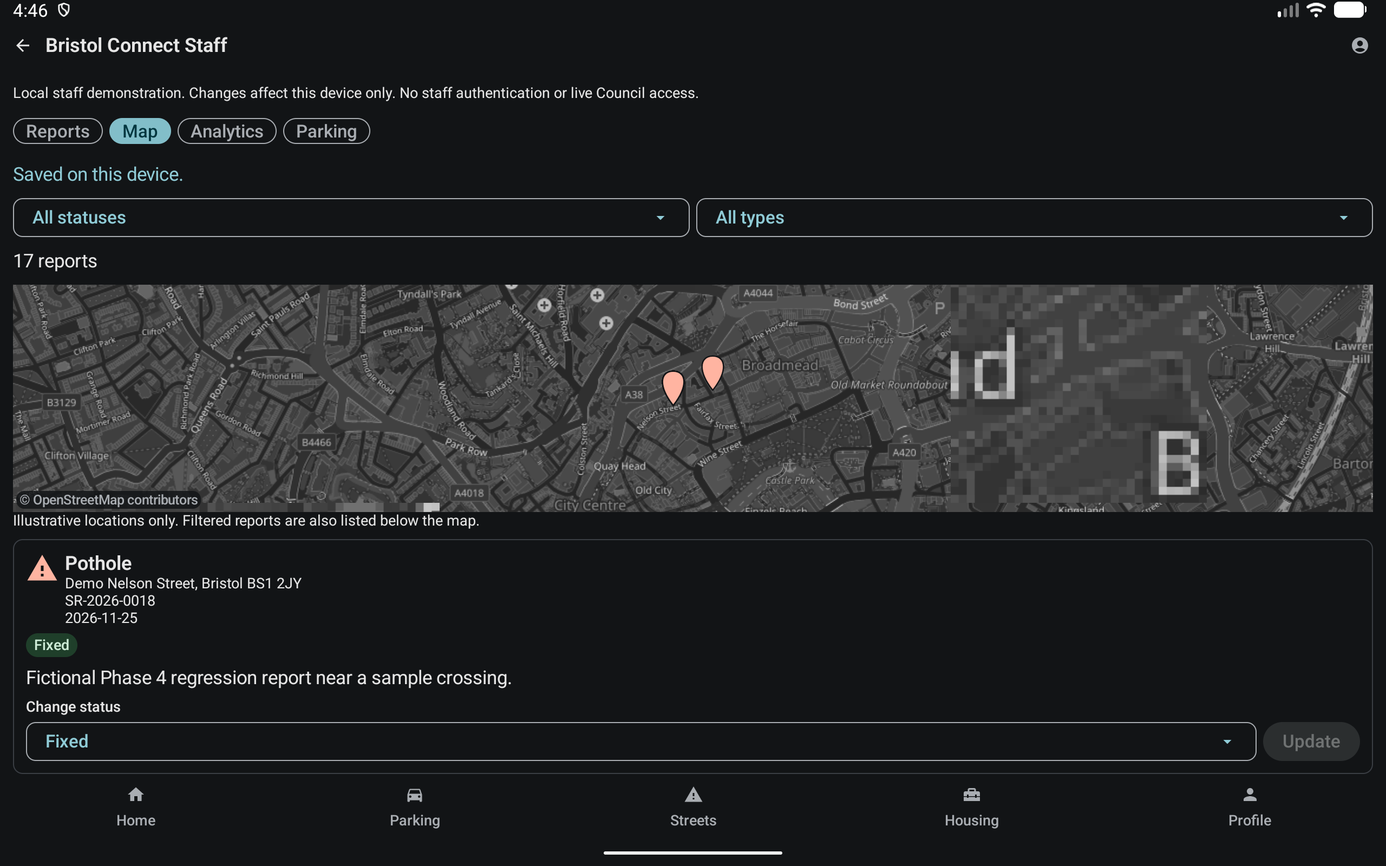
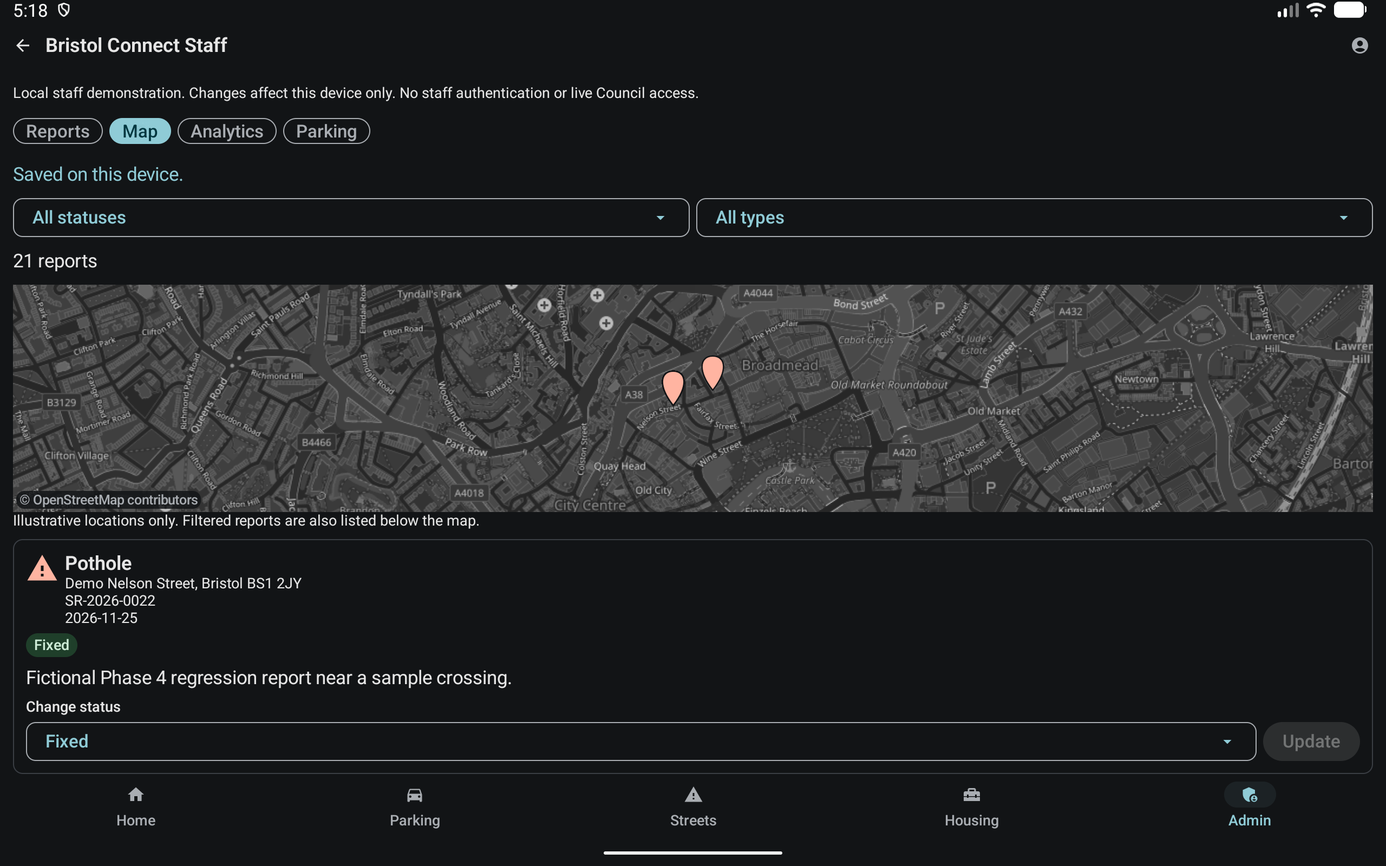
Remove generated Home and Profile work and keep Admin independent [skip ci]

diff --git a/app/src/main/java/com/example/mobileapplication/ui/navigation/BristolCityCompanionApp.kt b/app/src/main/java/com/example/mobileapplication/ui/navigation/BristolCityCompanionApp.kt
@@ -1,7 +1,12 @@
 package com.example.mobileapplication.ui.navigation
 
+import androidx.compose.foundation.layout.Arrangement
+import androidx.compose.foundation.layout.Column
 import androidx.compose.foundation.layout.consumeWindowInsets
+import androidx.compose.foundation.layout.fillMaxSize
 import androidx.compose.foundation.layout.padding
+import androidx.compose.material3.CenterAlignedTopAppBar
+import androidx.compose.material3.ExperimentalMaterial3Api
 import androidx.compose.material3.Icon
 import androidx.compose.material3.MaterialTheme
 import androidx.compose.material3.NavigationBar
@@ -9,9 +14,14 @@ import androidx.compose.material3.NavigationBarItem
 import androidx.compose.material3.NavigationBarItemDefaults
 import androidx.compose.material3.Scaffold
 import androidx.compose.material3.Text
+import androidx.compose.material3.TextButton
+import androidx.compose.material3.TopAppBarDefaults
 import androidx.compose.runtime.Composable
+import androidx.compose.ui.Alignment
 import androidx.compose.ui.Modifier
 import androidx.compose.ui.res.stringResource
+import androidx.compose.ui.text.font.FontWeight
+import androidx.compose.ui.unit.dp
 import androidx.navigation.NavDestination.Companion.hierarchy
 import androidx.navigation.NavGraph.Companion.findStartDestination
 import androidx.navigation.compose.NavHost
@@ -19,34 +29,50 @@ import androidx.navigation.compose.composable
 import androidx.navigation.compose.currentBackStackEntryAsState
 import androidx.navigation.compose.rememberNavController
 import com.example.mobileapplication.R
-import com.example.mobileapplication.ui.dashboard.*
-import com.example.mobileapplication.data.repository.*
+import com.example.mobileapplication.ui.dashboard.DashboardViewModel
+import com.example.mobileapplication.ui.dashboard.StaffScreen
+import com.example.mobileapplication.data.repository.ParkingRepository
+import com.example.mobileapplication.data.repository.StreetReportRepository
 import androidx.compose.ui.platform.LocalContext
 import androidx.lifecycle.viewmodel.compose.viewModel
 import androidx.lifecycle.viewmodel.initializer
 import androidx.lifecycle.viewmodel.viewModelFactory
-import androidx.compose.runtime.getValue
-import androidx.lifecycle.compose.collectAsStateWithLifecycle
+import com.example.mobileapplication.ui.cleanairzone.CLEAN_AIR_ZONE_GRAPH_ROUTE
 import com.example.mobileapplication.ui.cleanairzone.cleanAirZoneGraph
+import com.example.mobileapplication.ui.housing.HOUSING_GRAPH_ROUTE
 import com.example.mobileapplication.ui.housing.housingGraph
 import com.example.mobileapplication.ui.parking.parkingGraph
 import com.example.mobileapplication.ui.streetissues.STREET_CAMERA_ROUTE
 import com.example.mobileapplication.ui.streetissues.streetIssuesGraph
 
+@OptIn(ExperimentalMaterial3Api::class)
 @Composable
 fun BristolCityCompanionApp() {
     val navController = rememberNavController()
     val currentDestination = navController.currentBackStackEntryAsState().value?.destination
+    val isParking = currentDestination?.hierarchy?.any { it.route == AppDestination.Parking.route } == true
+    val isStreets = currentDestination?.hierarchy?.any { it.route == AppDestination.Streets.route } == true
+    val isCleanAirZone = currentDestination?.hierarchy?.any { it.route == CLEAN_AIR_ZONE_GRAPH_ROUTE } == true
+    val isHousing = currentDestination?.hierarchy?.any { it.route == HOUSING_GRAPH_ROUTE } == true
 
     Scaffold(
+        topBar = {
+            if (!isParking && !isStreets && !isHousing && !isCleanAirZone && currentDestination?.route != AppDestination.Admin.route) {
+            CenterAlignedTopAppBar(
+                title = { Text("Bristol City Companion") },
+                colors = TopAppBarDefaults.centerAlignedTopAppBarColors(
+                    containerColor = MaterialTheme.colorScheme.primaryContainer
+                )
+            )
+            }
+        },
         bottomBar = {
             // Mockup 5: the street-issue camera is full screen, so the bottom bar is hidden only there.
             if (currentDestination?.route != STREET_CAMERA_ROUTE) NavigationBar(containerColor = MaterialTheme.colorScheme.surface) {
                 AppDestination.bottomNavigation.forEach { destination ->
                     NavigationBarItem(
                         // hierarchy also matches nested graphs, so Housing stays selected on every housing screen.
-                        selected = currentDestination?.hierarchy?.any { it.route == destination.route } == true ||
-                            (destination == AppDestination.Profile && currentDestination?.route == "staff"),
+                        selected = currentDestination?.hierarchy?.any { it.route == destination.route } == true,
                         colors = NavigationBarItemDefaults.colors(
                             selectedIconColor = MaterialTheme.colorScheme.primary,
                             selectedTextColor = MaterialTheme.colorScheme.primary,
@@ -55,16 +81,12 @@ fun BristolCityCompanionApp() {
                             unselectedTextColor = MaterialTheme.colorScheme.onSurfaceVariant
                         ),
                         onClick = {
-                            if (destination == AppDestination.Home) {
-                                navController.popBackStack(AppDestination.Home.route, false)
-                            } else {
-                                navController.navigate(destination.route) {
-                                    popUpTo(navController.graph.findStartDestination().id) {
-                                        saveState = true
-                                    }
-                                    launchSingleTop = true
-                                    restoreState = true
+                            navController.navigate(destination.route) {
+                                popUpTo(navController.graph.findStartDestination().id) {
+                                    saveState = true
                                 }
+                                launchSingleTop = true
+                                restoreState = true
                             }
                         },
                         icon = { Icon(destination.icon, contentDescription = stringResource(destination.labelRes)) },
@@ -84,17 +106,14 @@ fun BristolCityCompanionApp() {
                 .consumeWindowInsets(innerPadding)
         ) {
             composable(AppDestination.Home.route) {
-                val context = LocalContext.current.applicationContext
-                val vm: DashboardViewModel = viewModel(factory = viewModelFactory {
-                    initializer { DashboardViewModel(StreetReportRepository.getInstance(context), ParkingRepository.getInstance(context)) }
-                })
-                val reports by vm.reports.collectAsStateWithLifecycle()
-                HomeScreen(reports) { navController.navigate(it) { launchSingleTop = true } }
+                PlaceholderScreen("Welcome to Bristol City Companion", "A prototype for selected Bristol resident services.") {
+                    // TEMPORARY: opens the Clean Air Zone checker for testing until Home has service tiles.
+                    TextButton(onClick = { navController.navigate(CLEAN_AIR_ZONE_GRAPH_ROUTE) }) {
+                        Text(stringResource(R.string.temp_open_clean_air_zone))
+                    }
+                }
             }
-            composable(AppDestination.Profile.route) {
-                ProfileScreen { navController.navigate("staff") }
-            }
-            composable("staff") {
+            composable(AppDestination.Admin.route) {
                 val context = LocalContext.current.applicationContext
                 val vm: DashboardViewModel = viewModel(factory = viewModelFactory {
                     initializer { DashboardViewModel(StreetReportRepository.getInstance(context), ParkingRepository.getInstance(context)) }
@@ -106,5 +125,22 @@ fun BristolCityCompanionApp() {
             housingGraph(navController)
             cleanAirZoneGraph(navController)
         }
+    }
+}
+
+@Composable
+private fun PlaceholderScreen(title: String, description: String, extra: @Composable () -> Unit = {}) {
+    Column(
+        modifier = Modifier.fillMaxSize().padding(24.dp),
+        verticalArrangement = Arrangement.Center,
+        horizontalAlignment = Alignment.CenterHorizontally
+    ) {
+        Text(title, style = MaterialTheme.typography.headlineMedium, fontWeight = FontWeight.Bold)
+        Text(
+            text = description,
+            modifier = Modifier.padding(top = 12.dp),
+            style = MaterialTheme.typography.bodyLarge
+        )
+        extra()
     }
 }

diff --git a/app/src/androidTest/java/com/example/mobileapplication/DashboardUiTest.kt b/app/src/androidTest/java/com/example/mobileapplication/DashboardUiTest.kt
@@ -15,7 +15,7 @@ import java.io.File
 class DashboardUiTest {
     @get:Rule val ui = createAndroidComposeRule<MainActivity>()
     private fun tap(text: String) {
-        val node = if (text in listOf("Home", "Parking", "Streets", "Housing", "Profile"))
+        val node = if (text in listOf("Home", "Parking", "Streets", "Housing", "Admin"))
             ui.onNode(hasText(text) and isSelectable()) else ui.onNodeWithText(text)
         if (!node.isDisplayed()) node.performScrollTo()
         node.performClick()
@@ -29,20 +29,6 @@ class DashboardUiTest {
         File(dir, "$name.png").outputStream().use { bitmap.compress(Bitmap.CompressFormat.PNG, 100, it) }
         bitmap.recycle()
     }
-    @Test fun homeSearchAndAllServiceDestinations() {
-        screenshot("01-home")
-        ui.onNodeWithText("Search services or report an issue").performTextInput("nothing matches")
-        ui.onNodeWithText("No services match your search.").assertExists()
-        ui.onNodeWithText("Search services or report an issue").performTextClearance()
-        listOf("Find parking" to "Nearest car parks", "Permit zones" to "Your resident's permit",
-            "Report an issue" to "Submit report", "Clean Air Zone" to "Clean Air Zone checker",
-            "Report a repair" to "Which room is the problem in?", "Rent account" to "Pay rent").forEach { (tile, expected) ->
-            tap(tile)
-            try { ui.waitUntil(10000) { ui.onAllNodesWithText(expected).fetchSemanticsNodes().isNotEmpty() } }
-            catch (failure: Throwable) { screenshot("failure-service"); throw AssertionError("Home tile $tile did not show $expected", failure) }
-            tap("Home")
-        }
-    }
     @Test fun staffStatusAndParkingEditsReachResidentScreens() = runBlocking {
         val context = InstrumentationRegistry.getInstrumentation().targetContext
         val repo = StreetReportRepository.getInstance(context)
@@ -53,7 +39,7 @@ class DashboardUiTest {
         val park = parking.carParks.first()
         val desired = if (original == StreetStatus.FIXED) StreetStatus.SUBMITTED else StreetStatus.FIXED
         try {
-            tap("Profile"); tap("Open staff demonstration")
+            tap("Admin")
             ui.waitUntil(10000) { ui.onAllNodesWithText("All statuses").fetchSemanticsNodes().isNotEmpty() }
             screenshot("02-staff-reports")
             // Select just the first report using its current category and status filters.
@@ -74,11 +60,12 @@ class DashboardUiTest {
             ui.onNodeWithText("Sample hourly price (£0–£100)").performTextReplacement("3.25")
             tap("Update")
             ui.waitUntil(10000) { parking.carParks.first().sampleSpaces == 17 }
+            ui.waitUntil(10000) { ui.onAllNodesWithText("Edit parking sample").fetchSemanticsNodes().isEmpty() }
             screenshot("06-parking-updated")
             val reopened = ParkingRepository(context.getSharedPreferences("parking_samples", 0))
             assertEquals(17, reopened.carParks.first().sampleSpaces)
             assertEquals(3.25, reopened.carParks.first().sampleHourlyPrice, 0.001)
-            tap("Home"); tap("Your street reports")
+            tap("Streets"); tap("My reports")
             ui.onAllNodesWithText(context.getString(desired.labelRes)).onFirst().assertExists()
             screenshot("07-resident-status")
             tap("Parking")

diff --git a/app/src/main/java/com/example/mobileapplication/ui/navigation/AppDestination.kt b/app/src/main/java/com/example/mobileapplication/ui/navigation/AppDestination.kt
@@ -3,7 +3,7 @@ package com.example.mobileapplication.ui.navigation
 import androidx.compose.material.icons.Icons
 import androidx.compose.material.icons.filled.DirectionsCar
 import androidx.compose.material.icons.filled.Home
-import androidx.compose.material.icons.filled.Person
+import androidx.compose.material.icons.filled.AdminPanelSettings
 import androidx.compose.material.icons.filled.HomeRepairService
 import androidx.compose.material.icons.filled.ReportProblem
 import androidx.compose.ui.graphics.vector.ImageVector
@@ -19,15 +19,15 @@ sealed class AppDestination(
         Parking -> R.string.nav_parking
         Streets -> R.string.nav_streets
         Housing -> R.string.nav_housing
-        Profile -> R.string.profile_title
+        Admin -> R.string.admin_nav_title
     }
     data object Home : AppDestination("home", "Home", Icons.Default.Home)
     data object Parking : AppDestination("parking", "Parking", Icons.Default.DirectionsCar)
     data object Streets : AppDestination("streets", "Streets", Icons.Default.ReportProblem)
     data object Housing : AppDestination("housing", "Housing", Icons.Default.HomeRepairService)
-    data object Profile : AppDestination("profile", "Profile", Icons.Default.Person)
+    data object Admin : AppDestination("staff", "Admin", Icons.Default.AdminPanelSettings)
 
     companion object {
-        val bottomNavigation = listOf(Home, Parking, Streets, Housing, Profile)
+        val bottomNavigation get() = listOf(Home, Parking, Streets, Housing, Admin)
     }
 }

diff --git a/app/src/main/java/com/example/mobileapplication/ui/dashboard/StaffScreen.kt b/app/src/main/java/com/example/mobileapplication/ui/dashboard/StaffScreen.kt
@@ -104,7 +104,7 @@ fun StaffScreen(vm: DashboardViewModel, onBack: () -> Unit) {
                             Text(stringResource(R.string.parking_row_summary, park.sampleDistanceMiles, park.sampleSpaces))
                             Text(stringResource(R.string.parking_row_price, park.sampleHourlyPrice))
                             Text(stringResource(park.category.labelRes))
-                            OutlinedButton(onClick = { editing = park }, enabled = !busy) { Text(stringResource(R.string.staff_edit_parking)) }
+                            OutlinedButton(onClick = { vm.dismissNotice(); editing = park }, enabled = !busy) { Text(stringResource(R.string.staff_edit_parking)) }
                         }
                     }
                 }

diff --git a/app/src/androidTest/java/com/example/mobileapplication/PhaseFourSharedServicesTest.kt b/app/src/androidTest/java/com/example/mobileapplication/PhaseFourSharedServicesTest.kt
@@ -38,7 +38,7 @@ class PhaseFourSharedServicesTest {
     }
 
     @Test fun cazValidationAndEveryOutcomeKeepsPrototypeNotice() {
-        node(R.string.home_caz).reveal().performClick()
+        node(R.string.temp_open_clean_air_zone).reveal().performClick()
         node(R.string.caz_check_button).reveal().performClick()
         node(R.string.caz_error_empty).assertExists()
         val field = ui.onNode(hasSetTextAction())

diff --git a/tools/prepare-design-review.py b/tools/prepare-design-review.py
@@ -61,18 +61,18 @@ document.add_paragraph('Approved composites: Home 2; Parking 3–4; Streets 5–
 
 document.add_page_break()
 document.add_heading('Appendix D Implementation review', 1)
-document.add_paragraph('Ownership clarified by Omar on 25 November 2026: Omar owns Admin/Staff, Parking and Streets. Mohammad owns Home, Profile, Housing and Clean Air Zone. The Home/Profile code prepared by the coding agent on the handover branch is support pending Mohammad’s review; it is not claimed as Omar’s individual contribution or as code authored by Mohammad.')
+document.add_paragraph('Ownership clarified by Omar on 25 November 2026: Omar owns Admin/Staff, Parking and Streets. Mohammad owns Home, Profile, Housing and Clean Air Zone. The agent-created Home/Profile implementation has been removed. Home retains its pre-existing placeholder and Profile is not implemented in this branch. Admin has a direct navigation tab.')
 document.add_paragraph('The completed Parking and Streets journeys use local demonstration data. Maps show real OpenStreetMap tiles but sample car parks and a fictional permit zone. A Street Report’s location label can be edited; its map pin remains a fixed illustrative location. This distinction avoids presenting sample coordinates as GPS reports.')
-document.add_paragraph('Home uses the existing bridge illustration, a guest welcome, service search and the six approved service tiles. It links to saved Street Reports, with a status preview, and provides five-item navigation including a local demonstration Profile. The illustration and guest wording replace the composite’s photographic named-user header because the MVP has no authenticated personal profile.')
+document.add_paragraph('Home and Profile remain Mohammad’s responsibility. This branch restores the pre-existing Home placeholder and removes the agent-created Home/Profile implementation. Admin is accessible from a dedicated navigation tab. This temporary integration entry replaces the proposed Profile slot until the group agrees its final resident/staff navigation.')
 document.add_paragraph('The Staff demonstration follows mockup 11: report filters, cards, status changes, map and summary counts. Status updates are saved before being published to the resident views. At Omar’s request a Parking tab also edits spaces, hourly price, EV charging and category for the existing fictional car parks. It has validation and local persistence. It is not a secured production staff portal.')
 document.add_paragraph('Housing and CAZ remain Mohammad’s responsibilities. Housing photos remain unavailable in the current build; the implemented flow must not be described as complete photo support. Saved favourites, Firebase authentication, Arabic translation and stretch services are not part of the implemented MVP. RTL layout tests are not translation tests.')
 document.add_paragraph('The original research references and access dates are retained from the source design. Final implementation evidence, device configurations and limits are in docs/evidence/finalization and docs/evidence/phase4. Both members should review this edition against their agreed scope and the supplied Blackboard template before submission.')
 
 document.add_page_break()
 document.add_heading('Appendix E Application in context', 1)
-document.add_paragraph('Screenshots of the running Android pilot show the implemented Home and Staff report views. They are captured emulator outputs; all report and parking information is illustrative.')
+document.add_paragraph('Screenshots of the running Android pilot show the retained Staff report and parking administration views. They are captured emulator outputs; all report and parking information is illustrative.')
 table = document.add_table(rows=1, cols=2)
-for cell, name in zip(table.rows[0].cells, ['01-home.png', '02-staff-reports.png']):
+for cell, name in zip(table.rows[0].cells, ['02-staff-reports.png', '06-parking-updated.png']):
     cell.paragraphs[0].add_run().add_picture(str(root / 'docs/evidence/finalization' / name), width=Inches(2.5))
 document.add_paragraph('GenAI support assisted implementation, debugging, testing and documentation preparation. Students remain responsible for reviewing the work and explaining the accepted code and design decisions. This review copy does not record a completed peer approval or assessment recording.')
 output = root / 'docs/submission/Design_Document_Review.docx'

diff --git a/docs/evidence/finalization/README.md b/docs/evidence/finalization/README.md
@@ -8,28 +8,28 @@ Post-integration `test assembleDebug assembleRelease lintDebug` passed locally. 
 
 ## Ownership
 
-Omar owns Admin/Staff, Parking and Streets. Mohammad owns Home, Profile, Housing and CAZ. The agent-prepared Home/Profile changes on this branch are integration support pending Mohammad's review, not part of Omar's individual contribution claim. The checks below cover the combined build.
+Omar owns Admin/Staff, Parking and Streets. Mohammad owns Home, Profile, Housing and CAZ. The agent-created Home/Profile implementation has been removed at Omar's request. The original Home placeholder is restored and Profile is not implemented. Admin has its own navigation tab. The checks below cover the combined build.
 
 ## Completed scope
 
-- Home replaces the placeholder with the approved six-service grid, service search/empty state, report/status shortcut and working service navigation. Five-item navigation includes a guest demonstration Profile.
-- Profile opens the Staff demonstration from mockup 11. Reports have status/category filters, a live filtered count, photos/details and saved status updates. Map displays filtered illustrative locations; Analytics counts the same filtered reports.
+- The Admin tab opens the Staff demonstration from mockup 11. Reports have status/category filters, a live filtered count, photos/details and saved status updates. Map displays filtered illustrative locations; Analytics counts the same filtered reports.
 - Staff Parking edits the eight existing fictional car parks' spaces, hourly price, EV flag and category. Invalid input is rejected. Preferences are saved off the UI thread before the shared flow updates the resident finder/details. A failed save retains the editing dialog and values.
-- Staff report status updates save through Room before publishing the shared report flow. The resident status/list and Home preview read that same data. No database schema change is needed for the existing status column.
+- Staff report status updates save through Room before publishing the shared report flow. The resident status/list reads that same data. No database schema change is needed for the existing status column.
 - Fresh gallery verification found that the private photo copy succeeded but navigation after the asynchronous copy could run off the main thread. Launching the gallery callback coroutine explicitly on `Dispatchers.Main.immediate` fixed the return to the form; attachment/removal passed on retest.
 - GitHub Actions now defines a build/unit/lint job and API 35 emulator job. A workflow definition is not evidence that remote CI has passed; consult the PR checks.
+
+The current records below supersede the earlier Home/Profile completion and test claims. Those screens and their added test/screenshots have been removed.
 
 ## Actual checks
 
 | Check | Result and evidence |
 |---|---|
 | Build/unit/lint | `gradlew.bat test assembleDebug assembleRelease lintDebug connectedDebugAndroidTest '-Pandroid.injected.androidTest.leaveApksInstalledAfterRun=true'` succeeded. 197 JVM unit tests, zero failures/errors. Lint: 52 warnings, zero errors. Debug/release APKs build. |
-| Default device suite | Retained XML contains 16 test cases: 10 passed, 6 setup-dependent cases skipped, zero failures/errors. The Gradle console's progress totals differ from the actual XML; this record uses the XML. See [core results](core-results.xml). |
-| Home routes | Search/no-results, Parking, permit, Streets, CAZ, Housing repair and rent shortcuts passed. Home returns to its root rather than restoring an unrelated nested service screen. [Home](01-home.png). |
+| Default device suite | Retained XML contains 15 test cases: 9 passed, 6 setup-dependent cases skipped, zero failures/errors. The Gradle console's progress totals differ from the actual XML; this record uses the XML. See [core results](core-results.xml). |
 | Staff/resident integration | Changed a report status, checked the repository/resident list, exercised map/analytics, rejected invalid parking input, saved spaces/price and checked resident finder data. Tests restore the original report status and parking sample. [Staff](02-staff-reports.png), [updated status](03-status-updated.png), [map](04-staff-map.png), [analytics](05-staff-analytics.png), [parking edit](06-parking-updated.png), [resident report](07-resident-status.png). |
 | Persistence/error boundaries | Unit tests verify failed status writes do not publish a change; missing references are rejected. A real Room close/reopen retains the updated status and the existing migration test preserves Housing. Reopening the parking preferences restores edited spaces/price. |
 | External flows | Separately configured `ExternalFlowUiTest` with `externalFlows=true`: 2 passed, zero failures. Used the real system picker, selected a locally generated test image, confirmed the selection, verified attachment/removal and deleted the media fixture. Opened Google Maps with sample coordinates. A rejecting Context wrapper verified that all three handlers are attempted and `false` is returned when none exists; this is a simulated no-handler check, not removal of installed apps. [External results](external-results.xml), [picker](08-system-gallery.png), [attached](09-gallery-attached.png), [Maps](10-directions-hand-off.png). |
-| Responsive Home/admin | The two Dashboard tests passed at 1600 × 2560 / 240 dpi, rotated to actual 2560 × 1600 landscape, 150% font and dark mode. This is the same API 37 emulator, not a second physical device. The retained captures are LTR; no new RTL result is claimed. [Results](responsive/results.xml), [Home](responsive/01-home.png), [staff](responsive/02-staff-reports.png), [parking](responsive/06-parking-updated.png). |
+| Responsive Admin | The Admin integration test passed at 1600 × 2560 / 240 dpi, rotated to actual 2560 × 1600 landscape, 150% font and dark mode. This is the same API 37 emulator, not a second physical device. The retained captures are LTR; no new RTL result is claimed. [Results](responsive/results.xml), [staff](responsive/02-staff-reports.png), [parking](responsive/06-parking-updated.png). |
 | Documents | Mini report rendered to three pages and design review copy to 16 pages; all pages visually inspected. The source design draft is preserved. Generated documents/ZIP remain local because they contain submission identifiers and need group review/signatures. |
 
 Primary emulator: `Medium_Phone_API_37.0`, API 37, x86_64. Normal display: 1080 × 2400 / 420 dpi. IDE product information reports Android Studio `AI-262.9437.185.2621.16467767` (2026.2.1); bundled JDK OpenJDK `25.0.3`, build `25.0.3+-15898627-b508.16`. Minimum/compile/target SDK: 26/36/36; Gradle wrapper 9.1.0 and AGP 9.0.1.

diff --git a/contributions.md b/contributions.md
@@ -10,11 +10,11 @@ Update this file throughout the project. The final mini report should refer to t
 | Mohammad AlAbwah | Home dashboard, Profile, Housing repair report/progress, Clean Air Zone checker, rent account/reminder, local data persistence for their features. |
 | Omar Abdelatty + Mohammad AlAbwah | Navigation Compose integration, theme/design components, integration, testing, design document and video. |
 
-Ownership clarified by Omar on 25 November 2026: Home and Profile belong to Mohammad; Admin belongs to Omar. The Home/Profile code prepared by the coding agent during the final handover is integration support for Mohammad's review. It is not an individual contribution claim for Omar or a claim that Mohammad authored that prepared code.
+Ownership clarified by Omar on 25 November 2026: Home and Profile belong to Mohammad; Admin belongs to Omar. At Omar's request the agent-created Home/Profile implementation has been removed. Home retains its pre-existing placeholder; Profile is not implemented on this branch. Admin has a direct navigation tab. Mohammad's existing Housing and CAZ code is preserved.
 
 ## Contribution log
 
-Final handover (2026-11-25), Omar scope with coding-agent assistance: completed the approved Admin/Staff dashboard. The same branch contains agent-prepared Home/Profile integration support, which belongs to Mohammad for review and is excluded from Omar's individual contribution claim. Staff filters/maps/counts and Room-backed status changes share the resident reports flow. Added locally saved parking sample edits (spaces, hourly price, EV flag and category), validation and resident finder/details refresh. Fresh system-gallery testing exposed and fixed navigation off the main thread after a successful photo copy. Added storage/error/update tests, real gallery/Maps checks, responsive Home/admin evidence and Android CI workflows. Current records show 197 unit tests with no failures, successful debug/release builds and lint with 52 warnings/no errors; core device XML has 10 passes and 6 configured skips, external checks separately pass 2/2 and responsive checks pass 2/2. Prepared a local unsigned mini report, design review copy, timed video guide and packaging script; no human review, signature or recording is claimed. See [final evidence](docs/evidence/finalization/README.md). Generated assessment identifiers/documents remain local rather than published to this public repository.
+Final handover (2026-11-25), Omar scope with coding-agent assistance: completed the approved Admin/Staff dashboard. The agent-created Home/Profile implementation was removed at Omar's request; the original Home placeholder is restored and Admin has its own navigation entry. Staff filters/maps/counts and Room-backed status changes share the resident reports flow. Added locally saved parking sample edits (spaces, hourly price, EV flag and category), validation and resident finder/details refresh. Fresh system-gallery testing exposed and fixed navigation off the main thread after a successful photo copy. Added storage/error/update tests, real gallery/Maps checks, responsive Admin evidence and Android CI workflows. Current records show 197 unit tests with no failures, successful debug/release builds and lint with 52 warnings/no errors; core device XML has 9 passes and 6 configured skips, external checks separately pass 2/2 and responsive Admin check passes 1/1. Prepared a local unsigned mini report, design review copy, timed video guide and packaging script; no human review, signature or recording is claimed. See [final evidence](docs/evidence/finalization/README.md). Generated assessment identifiers/documents remain local rather than published to this public repository.
 
 Phase 4 follow-up (2026-11-22), Omar Abdelatty feature; coding agent operated the API 37 emulator: locally combined Mohammad's existing Phase 3 branch in merge `7f21003`, preserving its authored history. Added persistent Street Reports in the shared Room database (schema 2 and migration preserving Housing), save-error recovery and main-thread confirmation navigation. Fixed short landscape Parking/permit layouts using adjacent panels, updated the on-device data disclaimer, and corrected Compose density access in the permit map. Combined debug/release builds and lint pass; 194 unit tests have zero failures/errors. Device verification covers Room reopen/migration, core Parking/Streets/rent navigation, Housing repair/progress, CAZ prototype outcomes, large-font/dark mode, simulated tablet size, RTL, landscape/offline, permission denial, camera capture/switch/removal, location sorting and reminder persistence/cancellation after reboot. See [Phase 4 evidence, limits and walkthrough preparation](docs/evidence/phase4/README.md). PR #5 is merged at `1887c29`; this supersedes its historical pending-merge statements, not the need for review of this new combined branch. No peer approval or merge of the Phase 4 branch to main is claimed.
 

diff --git a/docs/submission/omar-walkthrough.md b/docs/submission/omar-walkthrough.md
@@ -4,13 +4,13 @@ Target group runtime: 7 minutes 30 seconds, leaving 30 seconds below the brief's
 
 | Time | Speaker | Demonstration and explanation |
 |---|---|---|
-| 0:00–0:20 | Mohammad | Introduce Bristol Connect as a native Android pilot with local/sample data. Show the Home service grid and navigation. |
+| 0:00–0:20 | Mohammad | Introduce Bristol Connect as a native Android pilot with local/sample data. State the ownership split and show navigation. Home remains a placeholder in this branch; do not claim a completed Home/Profile implementation. |
 | 0:20–1:15 | Omar | Parking: filter EV charging, open matching details, confirm external directions, show location on request and explain the denial fallback. Explain `ParkingViewModel`, immutable UI state, repository filtering and haversine distance sorting. |
 | 1:15–1:50 | Omar | Permit: show fictional Zone CM, permit expiry and reminder. Explain why one permit uses DataStore, why WorkManager survives process restarts, and why notifications require consent. |
 | 1:50–2:45 | Omar | Streets: show invalid submission, choose a category, enter a fictional description, attach/remove an optional photo and edit the location label. Submit, show the reference and My Reports. Explain validation, private photo copies, Room and save-before-confirmation. The map pin is illustrative, not GPS. |
-| 2:45–3:35 | Omar | Profile → Open staff demonstration. Filter reports, update a report status and show the matching resident status. Show report map/analytics, then change sample parking spaces and show the finder update. Explain shared repository flows and saving before publishing an update. |
+| 2:45–3:35 | Omar | Open the Admin tab. Filter reports, update a report status and show the matching resident status. Show report map/analytics, then change sample parking spaces and show the finder update. Explain shared repository flows and saving before publishing an update. |
 | 3:35–4:00 | Omar | Show `StreetStorageTest`, `ParkingAdminTest`, migration/device results and one responsive screenshot. Explain one defect found and fixed: confirmation on the main thread or gallery-return navigation. State emulator/physical-device limits honestly. |
-| 4:00–6:50 | Mohammad | Explain the Home dashboard and Profile, then demonstrate Housing repair/progress, saved Room data, rent/history/reminders, and CAZ validation/prototype outcomes/official checker. Mohammad chooses his code examples and confirms his contribution. |
+| 4:00–6:50 | Mohammad | Explain the planned Home/Profile work and any implementation Mohammad completes, then demonstrate Housing repair/progress, saved Room data, rent/history/reminders, and CAZ validation/prototype outcomes/official checker. Mohammad chooses his code examples and confirms his contribution. |
 | 6:50–7:30 | Both | Explain prototype limitations, testing evidence and next steps. State that no live Council reports, payments, official permit boundaries or authoritative CAZ decisions are provided. |
 
 ## Code questions to rehearse

diff --git a/docs/technical-decisions.md b/docs/technical-decisions.md
@@ -37,9 +37,9 @@ app/
 
 ## Guardrails
 
-Ownership correction from Omar (25 November 2026): Home dashboard and Profile belong to Mohammad; Admin/Staff belongs to Omar, alongside Parking and Streets. Home/Profile changes prepared by the coding agent on the handover branch are support awaiting Mohammad's review and are excluded from Omar's individual contribution claim.
+Ownership correction from Omar (25 November 2026): Home dashboard and Profile belong to Mohammad; Admin/Staff belongs to Omar, alongside Parking and Streets. The agent-created Home/Profile implementation was removed at Omar's request. The Home placeholder is restored and Profile is not implemented on this branch. Admin uses its own navigation tab; the fifth slot temporarily represents Admin rather than the proposed Profile screen.
 
-Final Omar scope (2026-11-25): the user requested the Staff dashboard and parking sample administration. Staff is an explicitly labelled local demonstration accessed through Profile, with no production authentication or live Council access. It uses the same `StreetReportRepository` singleton/Room table as resident screens; only successful writes are published. Parking keeps its eight resource-based fictional locations and stores validated staff overrides in private preferences; a shared state flow refreshes the finder/details. Writes run off the UI thread. The Home header reuses the existing bridge illustration and guest wording because the MVP has no authenticated named profile. These implementation changes and retained limitations are described in the local design review edition. Housing/CAZ implementations were not changed by this work.
+Final Omar scope (2026-11-25): the user requested the Staff dashboard and parking sample administration. Staff is an explicitly labelled local demonstration accessed through Profile, with no production authentication or live Council access. It uses the same `StreetReportRepository` singleton/Room table as resident screens; only successful writes are published. Parking keeps its eight resource-based fictional locations and stores validated staff overrides in private preferences; a shared state flow refreshes the finder/details. Writes run off the UI thread. These implementation changes and retained limitations are described in the local design review edition. Housing/CAZ implementations were not changed by this work.
 
 - No live payments or real Council-account integration.
 - No claim that a sample car-park result, report status, rent balance or CAZ answer is official/live data.

diff --git a/docs/requirements.md b/docs/requirements.md
@@ -17,8 +17,7 @@ Design and evaluate a usable Android application that helps Bristol residents co
 | FR07 | View repair progress locally. | Mohammad AlAbwah | A submitted repair appears with a reference, selected preference and visible demonstration progress. |
 | FR08 | Check a vehicle against prototype CAZ rules. | Mohammad AlAbwah | A user can enter a valid-format registration and see a plainly labelled demonstration result plus an Official Checker action. |
 | FR09 | Provide shared navigation. | Omar Abdelatty + Mohammad AlAbwah | A user can reach Home, Parking, Streets and Housing from consistent navigation, and Android back behaviour is predictable. |
-| FR10 | Provide the Home dashboard and Profile. | Mohammad AlAbwah | Home provides the service shortcuts and report preview; Profile provides the local demonstration profile and an entry to Admin. |
-| FR11 | Manage local sample data through Admin/Staff. | Omar Abdelatty | A user can filter reports, inspect the report map/counts, persist status updates and edit validated parking sample values reflected in resident views. |
+| FR10 | Manage local sample data through Admin/Staff. | Omar Abdelatty | A user can filter reports, inspect the report map/counts, persist status updates and edit validated parking sample values reflected in resident views. |
 
 ## Quality-core requirements
 

diff --git a/README.md b/README.md
@@ -30,7 +30,7 @@ See `docs/` for requirements, technical decisions and the test plan. See `contri
 
 ## Local staff demonstration
 
-Open **Profile → Open staff demonstration** to filter Street Reports, inspect their map/summary, change local statuses and edit the existing parking samples. Updates are saved on this device and appear in the resident views. This is a demonstration, without staff authentication or a connection to Council systems.
+Open the **Admin** navigation tab to filter Street Reports, inspect their map/summary, change local statuses and edit the existing parking samples. Updates are saved on this device and appear in the resident views. This is a demonstration, without staff authentication or a connection to Council systems.
 
 Final checks and limitations are indexed in [Omar's final verification](docs/evidence/finalization/README.md). Assessment packaging and the under-eight-minute walkthrough are in [submission instructions](docs/submission/README.md). Generated reports and ZIPs are kept local.
 
